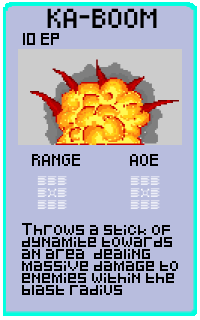
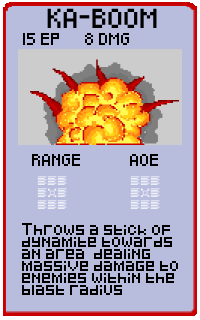
card changes + fixes

Changed region(s): [[0.0, 0.0, 0.99, 1.0], [0.42, 0.0938, 0.66, 0.1562], [0.15, 0.0938, 0.18, 0.125]]

diff --git a/WizardChess/Spell.java b/WizardChess/Spell.java
@@ -42,7 +42,7 @@ public class Spell extends SuperSmoothMover {
                 setup(0, "lightning", -6, -56, 100, 100, new int[][]{{-1, -1},{-1, 1},{1, -1},{1, 1}}, 200, 6);
                 break;
             case 6:
-                setup(8, "Heal", -2, -2, 100, 100, new int[][]{{0, 0}}, 50, 100);
+                setup(8, "Heal", -2, -2, 100, 100, new int[][]{{0, 0}}, 50, 1);
                 break;
         }
         
@@ -105,7 +105,8 @@ public class Spell extends SuperSmoothMover {
                             if (type == 6 && Wizard.getHP() <= 90 && t.getR() == Wizard.getR() && t.getC() == Wizard.getC()) {
                                 Wizard.setHeal(true);
                                 playDmgEffect(20);
-                                Wizard.takeDmg(-100);
+                                if(Wizard.getHP()<75) Wizard.setHP(Wizard.getHP()+15);
+                                else Wizard.setHP(100);
                             } else if(Wizard.getHP()>90){
                                 Wizard.setHP(100);
                             }

diff --git a/WizardChess/Card.java b/WizardChess/Card.java
@@ -73,7 +73,7 @@ public class Card extends SuperSmoothMover {
                 break;
             case 6:
                 setImage(new GreenfootImage("healCard.png"));
-                ep=15;
+                ep=10;
                 break;
         }
         // Alternative image assignment: setImage(new GreenfootImage("Testcardfront2.png"));

diff --git a/WizardChess/BoardManager.java b/WizardChess/BoardManager.java
@@ -375,7 +375,7 @@ public class BoardManager
             }
         }
     }
-
+    
     /**
      * Spawn pieces on the board based on the `incoming` array.
      */
